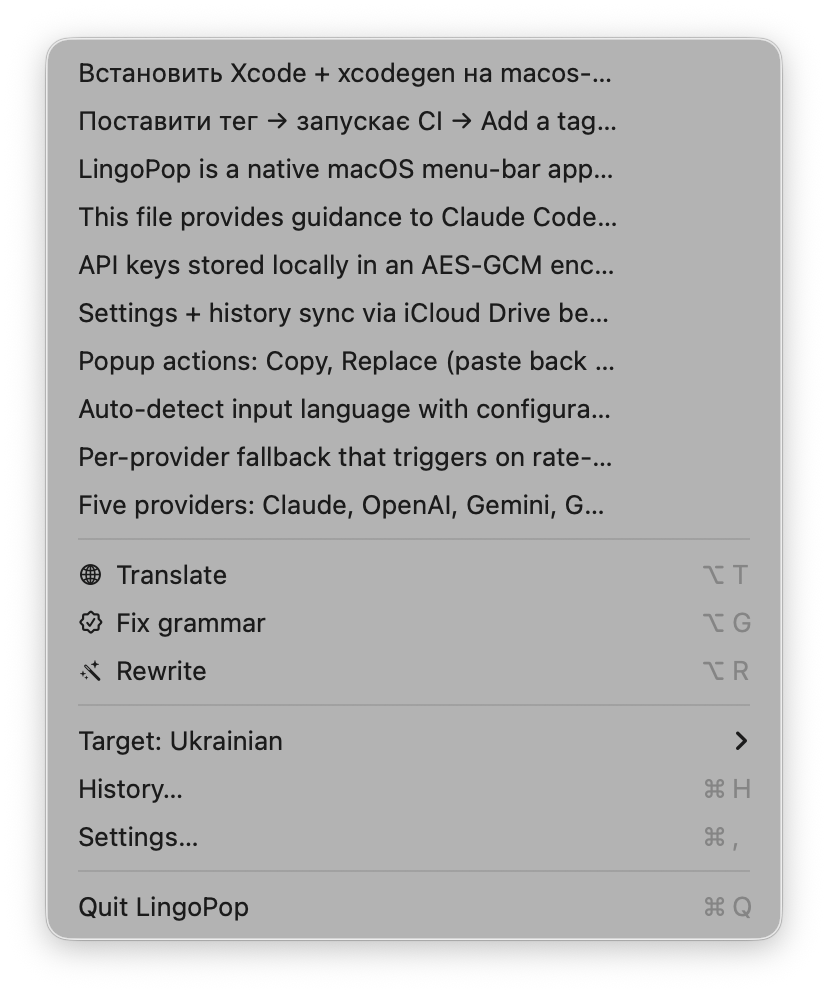
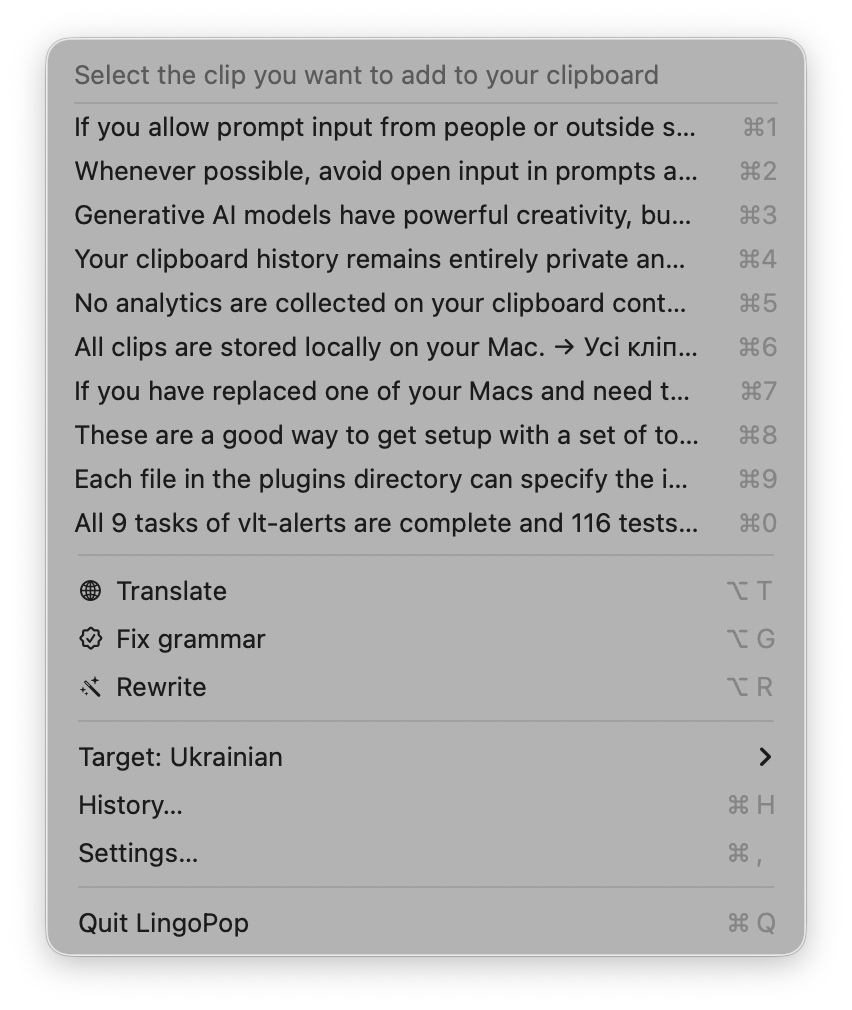
Improved recent translations menu

diff --git a/PRIVACY.md b/PRIVACY.md
@@ -32,6 +32,32 @@ These files sync between Macs signed into the same Apple ID, just like any other
 
 You can disable iCloud sync in Settings → Main.
 
+## Clipboard data
+
+When you trigger an operation, LingoPop temporarily reads the system clipboard to capture your selected text. This works as follows:
+
+1. The current clipboard contents are saved in memory.
+2. A `⌘C` keystroke is simulated to copy your selection.
+3. The selected text is read from the clipboard and sent to your chosen AI provider to perform the operation.
+4. The original clipboard contents are restored immediately afterward.
+
+**The clipboard snapshot is never written to disk and is never sent anywhere except the AI provider you have chosen.** The AI provider receives only the text needed for the operation — no clipboard metadata, no surrounding context, no other clipboard entries.
+
+If translation history is enabled, the source text and result are saved to:
+
+- `~/Library/Application Support/LingoPop/` (local, always)
+- `~/Library/Mobile Documents/com~apple~CloudDocs/LingoPop/history.json` (only if iCloud sync is on in Settings → Main)
+
+You can limit or clear history in Settings → Main, and disable iCloud sync at any time.
+
+### Privacy summary for clipboard data
+
+- Clipboard data is only read in memory for the duration of the operation.
+- No clipboard data is stored by LingoPop beyond the optional translation history entries.
+- No clipboard data is transmitted to LingoPop or any third party other than the AI provider you select.
+- No analytics are collected on your clipboard content.
+- Your clipboard history (outside of LingoPop's own translation history) remains entirely private and under your control.
+
 ## Telemetry and analytics
 
 There is no telemetry, no analytics, no crash reporting service. The app makes outbound network requests only to the AI provider you choose, and only when you trigger an operation.

diff --git a/CHANGELOG.md b/CHANGELOG.md
@@ -6,6 +6,12 @@ The format is loosely based on [Keep a Changelog](https://keepachangelog.com/) a
 
 ## [Unreleased]
 
+## v0.2.11 - 2026-05-30 Improved recent translations menu
+
+- Recent translations in the menu bar are now easier to read — more text visible before it's cut off
+- Each item shows a keyboard shortcut (⌘1–⌘0) so you can quickly copy a recent translation without touching the mouse
+- The menu looks more polished and consistent with the rest of macOS
+
 ## v0.2.10 - 2026-05-27 Refine PopupView layout with improved padding and background handling; enable shadow for PopupWindow for enhanced visual depth.
 
 ## v0.2.9 - 2026-05-25 Simplify PopupView background handling and improve shape clipping for better visual consistency.